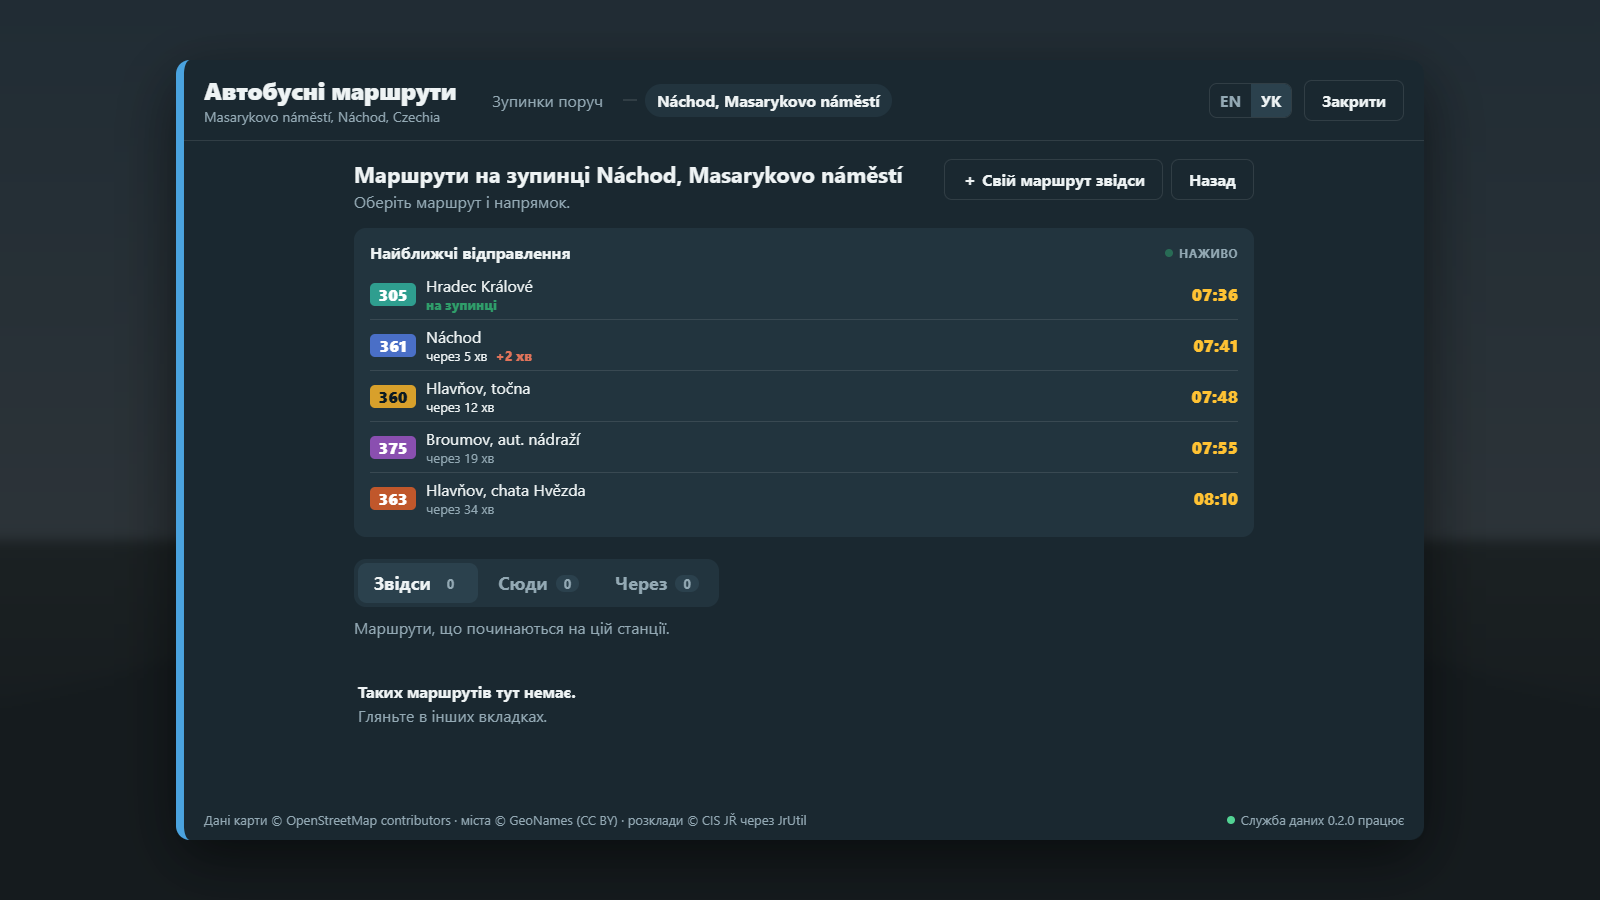
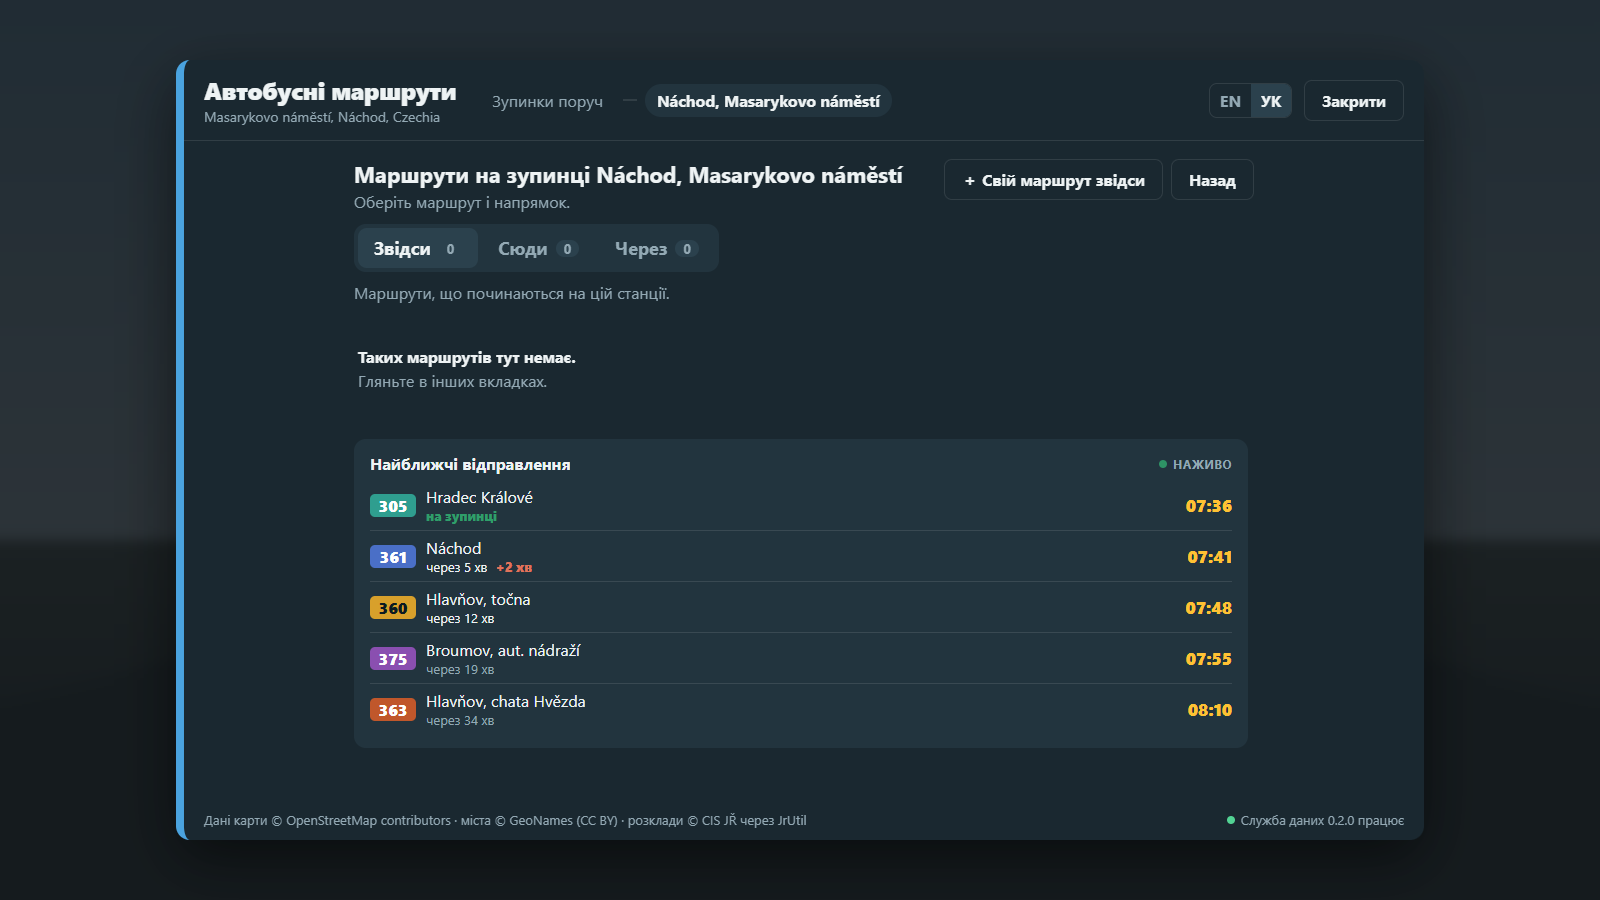
0.10.1: background route loads never ask a public server; live dots as a small event
The moving buses of 0.10.0 queued up to 30 route loads in the data service in
front of the route the player picked (300 s). Background loads now ask with
cached=1 and the service answers only from this computer. The dots and the
board go to the menu as their own small event instead of the whole model every
2 s, and the board no longer squeezes the lines list.

diff --git a/mod/ui/ui-vue/mods/earthBusRoutes/BusMenu.vue b/mod/ui/ui-vue/mods/earthBusRoutes/BusMenu.vue
@@ -253,7 +253,6 @@
           </div>
           <div v-if="s.loading === 'route'" class="loading"><span class="spin"></span><div><b>{{ t("lines.loading") }}</b><div class="muted">{{ t("lines.loadingHint") }}</div></div></div>
           <div v-if="s.error" class="notice bad"><p>{{ t("err.generic", { e: s.error }) }}</p></div>
-          <DepartureBoard v-if="s.board" :board="s.board" class="station-board" />
           <div class="tabs station-tabs" role="tablist">
             <button v-for="k in TABS" :key="k" role="tab" :aria-selected="curTab === k" :class="{ on: curTab === k }" @click="call('uiSetTab', k)">
               {{ t("tabs." + k) }}<span class="badge" :class="{ zero: !tabCount(k) }">{{ tabCount(k) }}</span>
@@ -273,6 +272,8 @@
                 </div>
               </div>
             </div>
+            <!-- (inside the list's scroll: it no longer squeezes the lines into a strip, 0.10.0) -->
+            <DepartureBoard v-if="s.board" :board="s.board" class="station-board" />
           </div>
         </section>
 
@@ -478,6 +479,13 @@ import { lang, setLang, t, noteText } from "./i18n.js"
 
 const events = useEvents()
 events.on("EarthBusRoutesState", onState)
+// the moving buses and the live board come on their own, small and often (the whole model only when something changed)
+events.on("EarthBusRoutesBuses", d => {
+  if (!state.value || !d) return
+  state.value.buses = d.buses
+  state.value.busNet = d.busNet
+  state.value.board = d.board
+})
 
 const PARTS = ["punctuality", "service", "comfort", "safety"]
 const rootEl = ref(null)
@@ -747,7 +755,7 @@ h3 { font-size: 16px; font-weight: 700; margin-bottom: 8px; }
 .career-note { display: flex; flex-wrap: wrap; gap: 6px 16px; font-size: 14px; .earned { font-weight: 700; color: var(--led); } .ach-new { font-weight: 700; } }
 .bus-note { display: flex; align-items: center; gap: 8px; margin: 0; }
 .bus-dot { width: 9px; height: 9px; border-radius: 50%; background: var(--led); box-shadow: 0 0 0 2px #0b1519; flex: none; }
-.station-board { margin: 4px 0 10px; }
+.station-board { margin: 6px 0 4px; flex: none; }
 .map-big { flex: 1; min-height: 0; border-radius: 12px; overflow: hidden; }
 .map-head { display: flex; align-items: center; gap: 12px; .map-town { flex: 1; font-size: 18px; } .btn { padding: 6px 12px; } }
 .map-sel { display: flex; flex-wrap: wrap; align-items: center; gap: 12px; padding: 12px 14px; border-radius: 12px; background: var(--panel-2);

diff --git a/companion/bus_routes_data.py b/companion/bus_routes_data.py
@@ -56,7 +56,7 @@ import urllib.request
 import zipfile
 from http.server import BaseHTTPRequestHandler, ThreadingHTTPServer
 
-VERSION = "0.10.0"
+VERSION = "0.10.1"
 APP = "earth-bus-routes-data"
 PORT = 47630
 UA = f"{APP}/{VERSION} (+https://github.com/Robitnik/earth-bus-routes)"   # Overpass refuses clients without one
@@ -2056,8 +2056,9 @@ class Service:
         except (ValueError, KeyError, TypeError, StopIteration):
             return text
 
-    def gtfs_route(self, rid):
-        """The text of a route answer for a line of the timetables: a relation with one way (the road through its stops, asked
+    def gtfs_route(self, rid, offline=False):
+        """`offline`: the road only from roads already kept (else straight lines between the stops), never a request.
+        The text of a route answer for a line of the timetables: a relation with one way (the road through its stops, asked
         of the routing servers in windows of 24 stops) and its stops with their times from the start, as the mod reads
         an OpenStreetMap route."""
         pat = self.gtfs.pattern(rid)
@@ -2070,8 +2071,12 @@ class Service:
             chunk = stops[i:i + window]
             pts = [(round(x["lat"], 6), round(x["lon"], 6)) for x in chunk]
             if len(pts) >= 2 and all(hav(a, b) <= MAX_LEG_M for a, b in zip(pts, pts[1:])):
-                p, _ = self.path(pts)
-                seg = [(a, b) for a, b in p["points"]]
+                if offline:
+                    kept, _ = self.cache.get(path_key(pts))
+                    seg = [(a, b) for a, b in json.loads(kept)["points"]] if kept else pts
+                else:
+                    p, _ = self.path(pts)
+                    seg = [(a, b) for a, b in p["points"]]
             else:
                 seg = pts
             road += seg if not road else seg[1:]
@@ -2185,6 +2190,7 @@ SHIFT_MAX_MINS = 720
 DEPOT_RADIUS_M = 10000
 DEPOT_CELL_DEG = 0.05
 FEATURES.extend(["shift", "depot"])
+FEATURES.append("routecached")      # /v1/route?id=..&cached=1: from this computer only (0.10.1)
 
 
 class Shifts:
@@ -2431,11 +2437,17 @@ def make_handler(service, port):
                     text, cached = service.nearby(lat, lon)
                 elif u.path == "/v1/route":
                     rid = int(q["id"][0])
+                    offline = q.get("cached", ["0"])[0] == "1"     # a background load: this computer only, at once
                     if GTFS_ROUTE <= rid < GTFS_NODE:
-                        text, cached = service.gtfs_route(rid), False
+                        text, cached = service.gtfs_route(rid, offline=offline), False
                         return self.send_json(200, b'{"ok":true,"cached":false,"data":' + text.encode("utf-8") + b"}")
                     if not 0 < rid < 10 ** 12:
                         return self.fail(400, "id out of range")
+                    if offline:
+                        text = service.cache.get(route_key(rid))[0] or service.cache.get(f"route_{rid}")[0]
+                        if text is None:
+                            return self.fail(404, "not on this computer")
+                        return self.send_json(200, b'{"ok":true,"cached":true,"data":' + service.with_limits(text).encode("utf-8") + b"}")
                     try:
                         text, cached = service.get(route_key(rid), route_query(rid))
                     except RuntimeError as e:

diff --git a/tests/test_companion.py b/tests/test_companion.py
@@ -450,6 +450,17 @@ class Timetables(unittest.TestCase):
         with self.assertRaises(RuntimeError):
             svc.gtfs_route(d.GTFS_ROUTE + 999)
 
+    def test_an_offline_timetable_route_never_asks_the_router(self):
+        asked = []
+        svc = self.service(lambda q: "{}", router=lambda pts: asked.append(pts) or json.dumps(d.straight_path(pts)))
+        out = json.loads(svc.gtfs_route(d.GTFS_ROUTE + 1, offline=True))
+        way = [m for m in out["elements"][0]["members"] if m["type"] == "way"][0]
+        self.assertEqual((asked, len(way["geometry"])), ([], 3), "straight between its stops, no request")
+        svc.gtfs_route(d.GTFS_ROUTE + 1)                                      # the player opens it: the road is asked and kept
+        n = len(asked)
+        json.loads(svc.gtfs_route(d.GTFS_ROUTE + 1, offline=True))
+        self.assertEqual(len(asked), n, "then the kept road is used, still no request")
+
     def test_local_search_adds_timetable_stops_but_not_a_second_copy(self):
         svc = self.service(lambda q: "{}")
         out = svc.local_search("alpha", 50.0, 16.0)
@@ -930,6 +941,26 @@ class Http(unittest.TestCase):
         s, j = self.get("/v1/route?id=6962840")
         self.assertEqual(s, 200)
         self.assertEqual(j["data"]["elements"][0]["type"], "relation")
+
+    def test_a_kept_route_never_asks_a_public_server(self):
+        # 0.10.1: the mod's background loads (the moving buses) ask with cached=1 and must never queue for Overpass
+        calls = []
+
+        def upstream(query):
+            calls.append(query)
+            return ROUTE
+
+        Http.svc.upstream, saved = upstream, Http.svc.upstream
+        try:
+            s, j = self.get("/v1/route?id=777001&cached=1")
+            self.assertEqual((s, calls), (404, []), "not on this computer: no request")
+            self.assertEqual(self.get("/v1/route?id=777001")[0], 200)          # the player asks: fetched and kept
+            n = len(calls)
+            s, j = self.get("/v1/route?id=777001&cached=1")
+            self.assertEqual((s, j["data"]["elements"][0]["type"], len(calls)), (200, "relation", n))
+        finally:
+            Http.svc.upstream = saved
+        self.assertIn("routecached", d.FEATURES)
 
     def test_info_lists_features(self):
         self.assertEqual(self.get("/v1/info")[1]["features"], d.FEATURES)

diff --git a/CHANGELOG.md b/CHANGELOG.md
@@ -1,5 +1,12 @@
 # Changelog
 
+## 0.10.1
+
+- **No more five-minute waits for a route.** The moving buses of 0.10.0 loaded up to 30 lines in the background, and the data service asks the public servers one at a time, so the route you picked waited behind them (300 s and more). Background loads now take only what the service keeps on this computer (a timetable line whose road was never asked for moves straight between its stops on the map); they never ask a public server.
+- **The open menu no longer stutters.** The moving dots and the departure board were sent with the whole menu (hundreds of map stops) every 2 seconds; they now come as a small update of their own every 3 seconds.
+- The departure board on a station's lines page sits below the lines instead of squeezing them into a strip.
+- Data service 0.10.1 (update it too: `/v1/route?id=..&cached=1`).
+
 ## 0.10.0
 
 A big one: shifts, a career, events on the road, a ghost, driving rules, and real buses of the lines (experimental, off by default). Everything new has its switch in the add-on settings.
